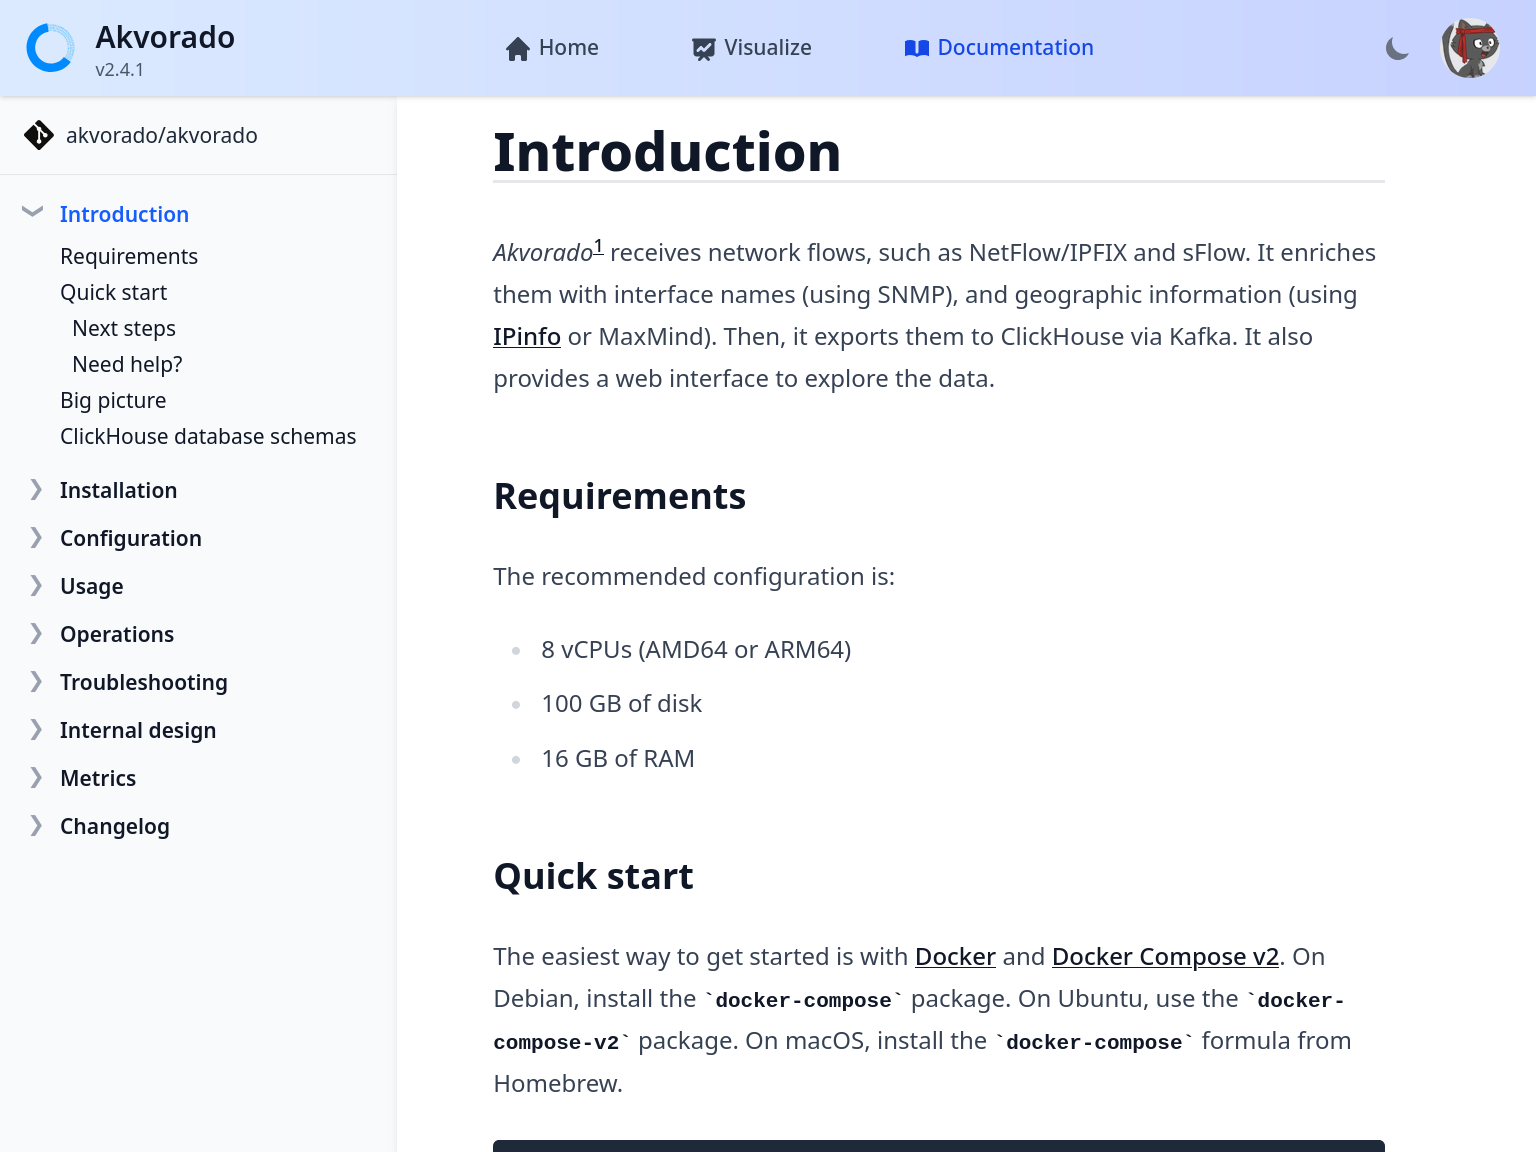
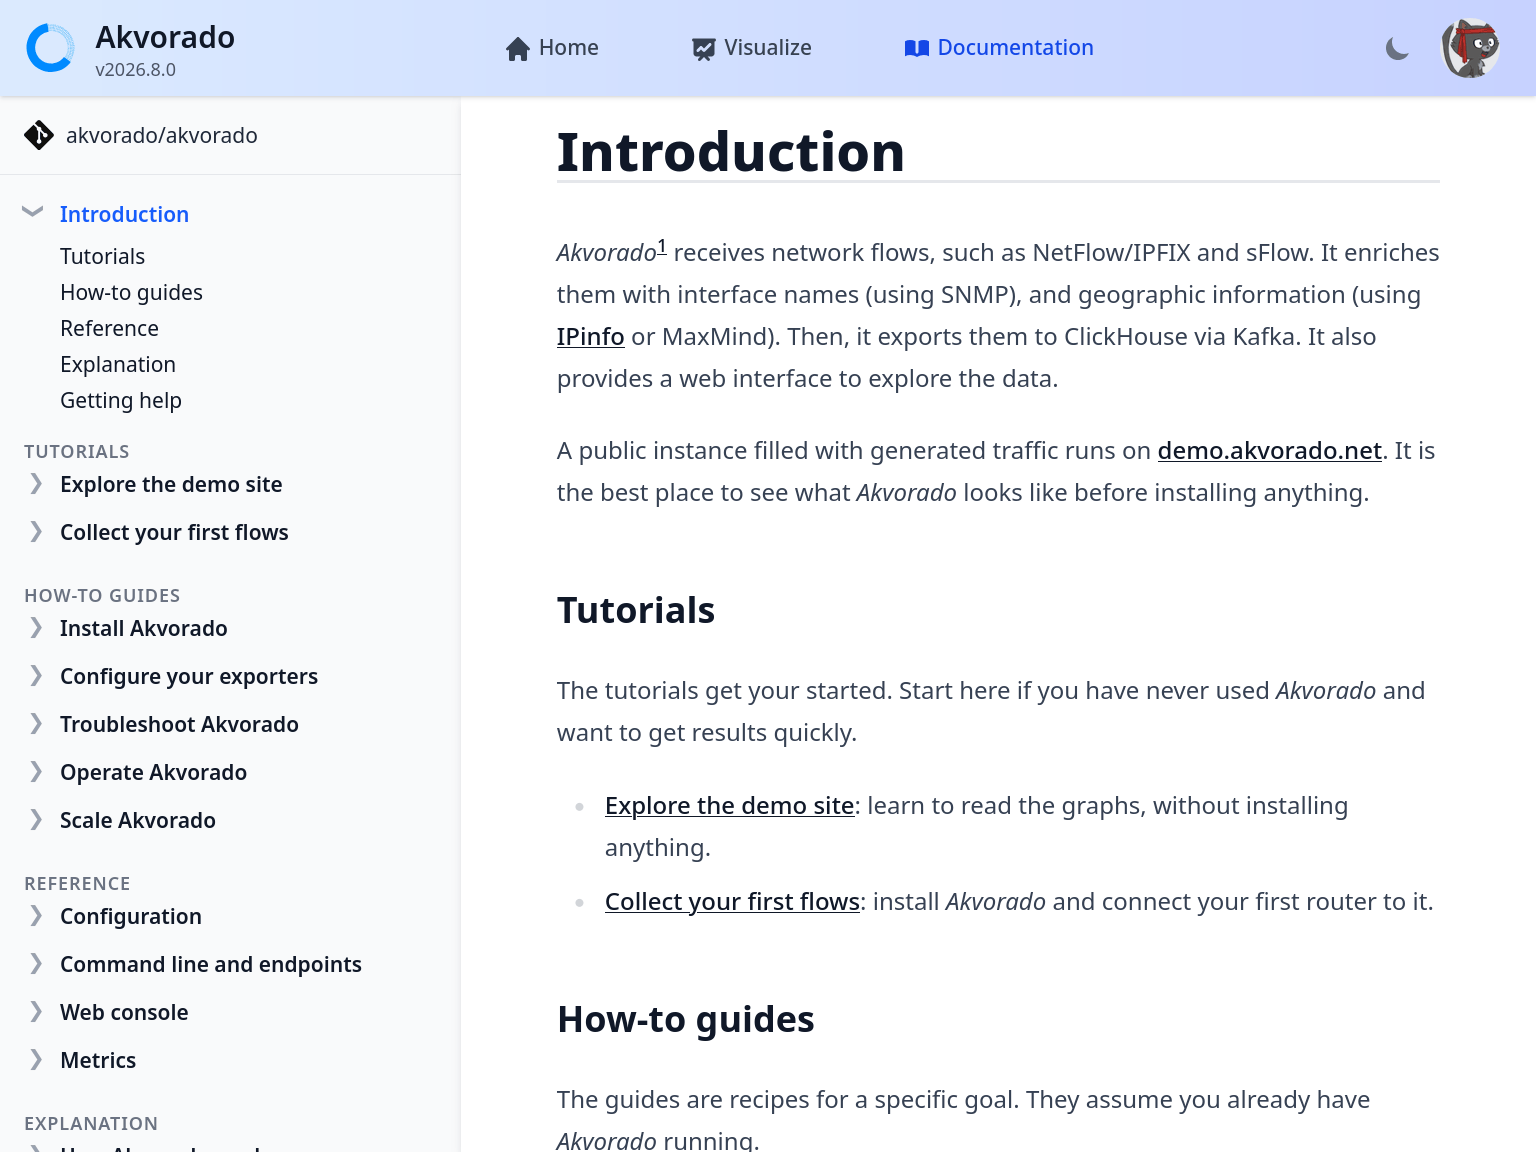
build: fix empty space for documentation screenshot
When headless, scrollbars are not painted, but the space for them are
still reserved in layouts. This made an empty whitespace between the TOC
panel and its shadow.

diff --git a/console/data/screenshots.py b/console/data/screenshots.py
@@ -200,6 +200,9 @@ def start_firefox(profile):
     with open(os.path.join(profile, "user.js"), "w") as f:
         f.write(f"""
 user_pref("layout.css.devPixelsPerPx", "{DEVICE_PIXEL_RATIO}");
+user_pref("ui.useOverlayScrollbars", 1);
+user_pref("ui.scrollbarFadeBeginDelay", 0);
+user_pref("ui.scrollbarFadeDuration", 0);
 user_pref("browser.shell.checkDefaultBrowser", false);
 user_pref("browser.startup.homepage_override.mstone", "ignore");
 user_pref("datareporting.policy.dataSubmissionEnabled", false);
